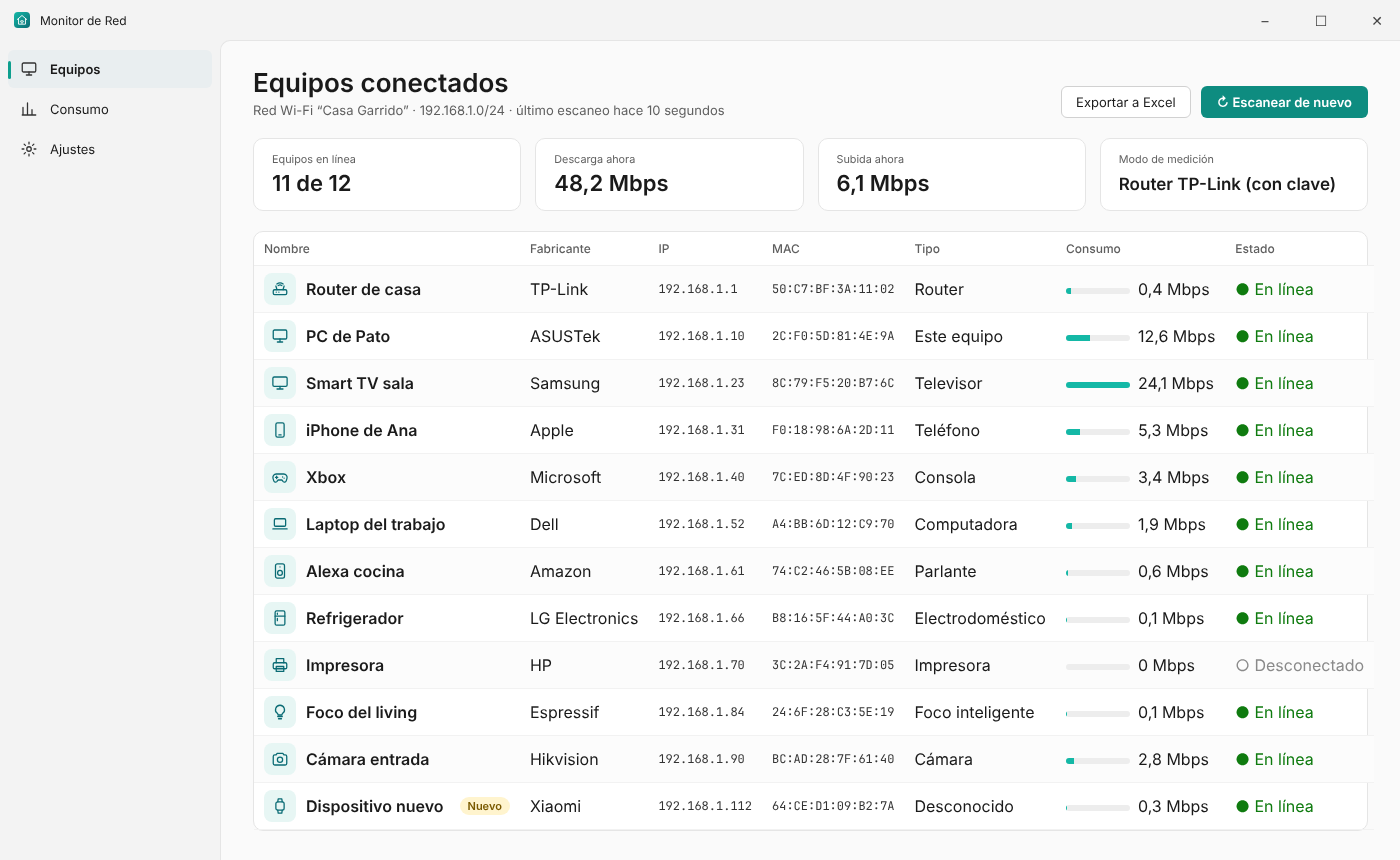
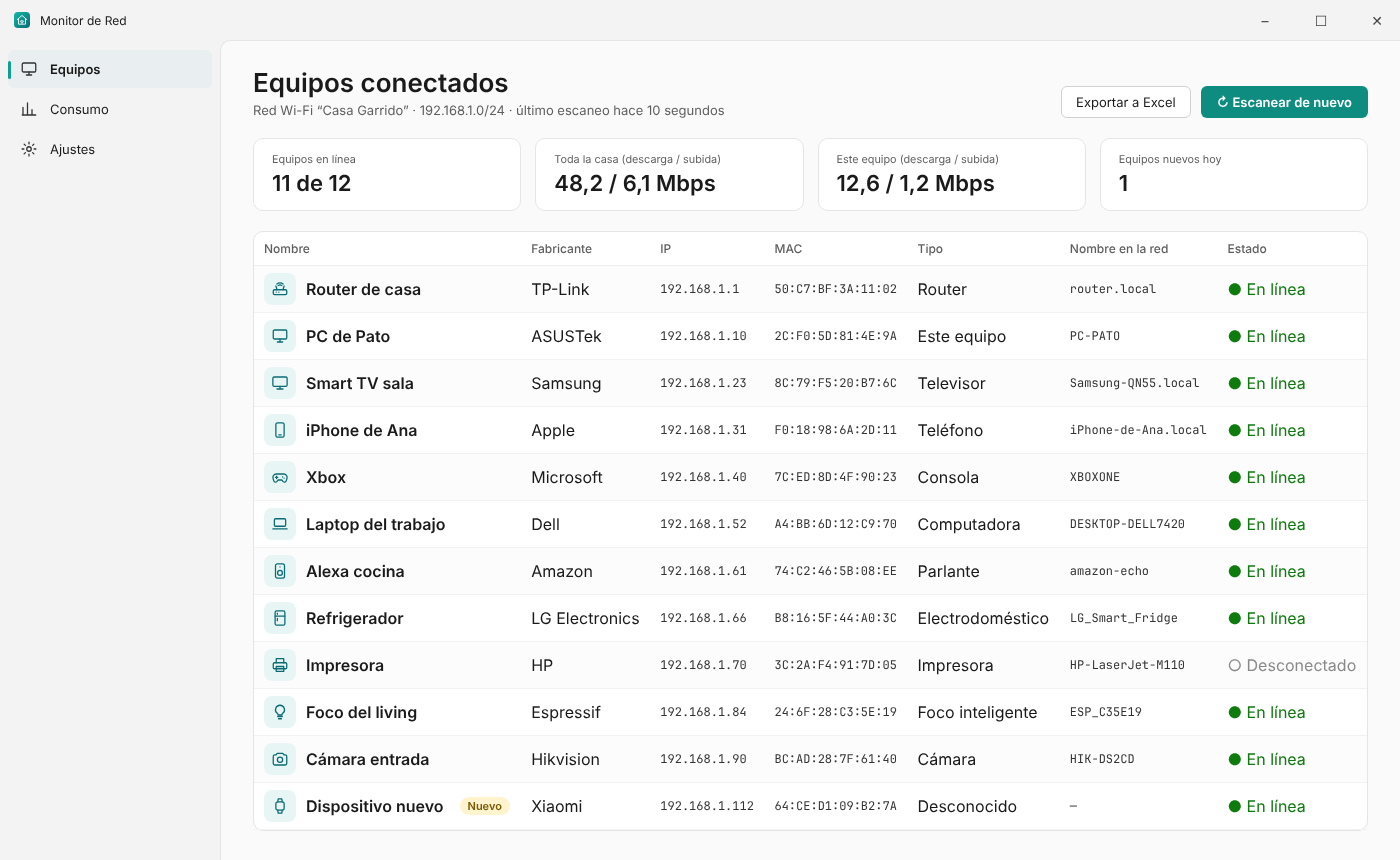
Ajustar la ficha de la Store a la medición de la edición Store
La versión de la Store mide el consumo total de la casa por UPnP y el
del propio equipo. Se quitan de la ficha, la política de privacidad y
las maquetas las menciones a otros modos de medición.

Claude-Session: https://claude.ai/code/session_01KLQaJ2sbnTYSgCnxBopoxp

diff --git a/MonitorRed/store/privacidad.html b/MonitorRed/store/privacidad.html
@@ -33,8 +33,8 @@
     <li>La dirección IP, la dirección MAC y el nombre en la red de cada equipo conectado.</li>
     <li>El fabricante de cada equipo, que se obtiene de la dirección MAC con una lista de fabricantes
       incluida dentro de la aplicación (sin consultar internet).</li>
-    <li>El consumo de internet, que se lee del router (si eliges ese modo) o del total que informa el
-      router por UPnP.</li>
+    <li>El consumo total de internet que informa tu router por UPnP y el consumo de este equipo, que se
+      lee de los contadores de red de Windows.</li>
   </ul>
   <p>Para descubrir los equipos, la aplicación usa los métodos estándar de una red local (ping, tabla ARP,
   NetBIOS, mDNS y UPnP/SSDP). Estas consultas no salen de tu red.</p>
@@ -43,17 +43,14 @@
   <ul>
     <li><strong>Nombres que tú les pones a los equipos</strong> y la lista de equipos vistos, en la carpeta
       <code>%APPDATA%\MonitorRed</code>.</li>
-    <li><strong>Usuario y contraseña del router</strong>, solo si eliges el modo "Conectar con el router".
-      La contraseña se guarda cifrada con la protección de datos de Windows (DPAPI), solo puede leerla tu
-      usuario de Windows en este equipo y únicamente se envía a tu router.</li>
   </ul>
   <p>Puedes borrar estos datos en cualquier momento eliminando esa carpeta o desinstalando la aplicación.</p>
 
   <h2>Información que la aplicación no recopila</h2>
   <ul>
     <li>No envía información a ningún servidor, ni del publicador ni de terceros.</li>
-    <li>No lee el contenido de lo que navegan tú ni los demás equipos de la red (páginas, mensajes,
-      contraseñas ni archivos).</li>
+    <li>No lee el contenido de lo que navegan tú ni los demás equipos de la red (páginas, mensajes ni
+      archivos).</li>
     <li>No usa cookies, publicidad, analíticas ni identificadores de seguimiento.</li>
     <li>No accede a tus documentos, contactos, ubicación, cámara ni micrófono.</li>
     <li>No requiere crear una cuenta.</li>

diff --git a/MonitorRed/store/FICHA-TIENDA.md b/MonitorRed/store/FICHA-TIENDA.md
@@ -15,23 +15,12 @@ Esta carpeta contiene todo lo necesario para la Store (misma estructura que `sto
 
 ---
 
-## Antes de empezar: puntos que pueden hacer rechazar la app
+## Antes de empezar
 
-1. **Modo "interceptar tráfico" (ARP spoofing con Npcap): no incluirlo en la versión de la Store.**
-   Hacerse pasar por el router para ver el tráfico de otros equipos es una técnica de "hombre en el medio".
-   La Store la rechaza casi seguro por la política de seguridad (10.2: la app no debe comprometer la
-   seguridad de otros equipos ni de la red), y además un paquete MSIX no puede instalar el driver Npcap.
-   Por eso el `.exe` de la Store se compila con `-EdicionStore`, que oculta ese modo. Ese modo puede
-   seguir en el `.exe` que se descarga desde la web.
-2. **Agente en cada equipo:** cuando exista, será otra app. Si se publica en la Store, va como un producto
-   aparte con su propia ficha. Mientras no exista, la app lo muestra como "Próximamente" (no prometerlo en
-   la descripción).
-3. **Clave del router:** está bien guardarla porque se cifra con DPAPI y solo se envía al router. Ya está
-   declarado en `privacidad.html` (política 10.5, datos personales).
-4. **Lista de fabricantes (OUI):** se recomienda generarla desde el registro público del IEEE (`oui.csv`)
-   en vez del archivo `manuf` de Wireshark, que se distribuye con licencia GPL.
-5. **Firewall:** si al escanear Windows muestra "Firewall de Windows bloqueó algunas características", hay
-   que agregar reglas de firewall al manifiesto (`desktop2:FirewallRules`). Avísale a Claude con una captura.
+- La versión de la Store mide el consumo de **toda la casa** (por UPnP, si el router lo tiene activado) y el
+  de **este equipo** (contadores de red de Windows). La descripción y las capturas solo deben mostrar eso.
+- **Firewall:** si al escanear Windows muestra "Firewall de Windows bloqueó algunas características", hay
+  que agregar reglas de firewall al manifiesto (`desktop2:FirewallRules`). Avísale a Claude con una captura.
 
 ---
 
@@ -63,7 +52,7 @@ En la app → **Envíos** → **Iniciar el envío**:
 - **Contacto de soporte:** patricio.garrido@garridoitsolutions.lat
 - **Requisitos del sistema:** teclado y mouse. Recomendado: conexión a una red Wi-Fi o cableada.
 - **Declaraciones del producto:** no marques "contiene compras desde la aplicación" ni "acceso a
-  ubicación". Marca que la app **accede a la red local**, si te lo pregunta.
+  ubicación".
 
 ### Clasificación por edad
 Responde el cuestionario IARC: categoría **"Herramienta o utilidad"** (no es un juego ni una red social).
@@ -85,8 +74,8 @@ rechaza con un error de identidad).
 Partner Center pedirá justificar `runFullTrust`. Texto sugerido:
 
 > **runFullTrust:** Monitor de Red es una aplicación de escritorio (WPF) que descubre los equipos de la
-> red local del usuario con los métodos estándar de Windows (ping, tabla ARP, NetBIOS, mDNS y UPnP/SSDP)
-> y lee el consumo de internet desde el router del usuario. Estas funciones requieren una aplicación de
+> red local del usuario con los métodos estándar de Windows (ping, tabla ARP, NetBIOS, mDNS y UPnP/SSDP),
+> lee el consumo total de internet que informa el router por UPnP y el consumo del propio equipo. Estas funciones requieren una aplicación de
 > escritorio de plena confianza. No pide permisos de administrador, no instala drivers ni servicios y no
 > se comunica con servidores externos: solo con el router y los equipos de la red del usuario.
 
@@ -94,9 +83,8 @@ Partner Center pedirá justificar `runFullTrust`. Texto sugerido:
 > La aplicación no requiere cuenta. Para probarla: conectar el equipo a una red Wi-Fi o cableada → abrir
 > la app → la pantalla "Equipos" escanea la red automáticamente y lista los equipos con su nombre, IP,
 > MAC y fabricante. Hacer clic en un equipo para ver el detalle y cambiarle el nombre ("Guardar nombre").
-> En "Ajustes" se elige el modo de medición: "Total de la red (UPnP)" funciona sin claves si el router
-> tiene UPnP activado; "Conectar con el router" necesita la clave del router del usuario, por lo que en
-> el entorno de prueba puede no mostrar el consumo por equipo. La app no lee el contenido del tráfico.
+> El consumo de este equipo se muestra siempre. El consumo total de la casa aparece si el router de la red
+> tiene UPnP activado; si no, la app lo indica y sigue funcionando. La app no lee el contenido del tráfico.
 
 ## Paso 3 — Política de privacidad
 
@@ -110,7 +98,7 @@ https://patriciogg0815.github.io/Moda/MonitorRed/store/privacidad.html
 **Nombre:** Monitor de Red (el nombre reservado en Partner Center)
 
 **Descripción breve**
-> Mira todos los equipos conectados a tu red de casa, con su nombre, IP, MAC y fabricante, y descubre cuál está usando más internet.
+> Mira todos los equipos conectados a tu red de casa, con su nombre, IP, MAC y fabricante, y cuánto internet se está usando.
 
 **Descripción**
 > ¿El internet está lento y no sabes quién lo está usando? ¿Hay un equipo conectado que no reconoces?
@@ -126,23 +114,20 @@ https://patriciogg0815.github.io/Moda/MonitorRed/store/privacidad.html
 > Cambia "Samsung Electronics" por "Smart TV sala" o "Xiaomi" por "Teléfono de Ana". La app recuerda los
 > nombres para la próxima vez.
 >
-> **Quién consume más internet**
-> Elige cómo medir el consumo:
-> - **Conectar con el router:** con el usuario y la clave de tu router, ves la velocidad de descarga y
->   subida de cada equipo.
-> - **Total de la red (UPnP):** sin claves, ves cuánto consume toda la casa.
+> **Cuánto internet se está usando**
+> - **Toda la casa:** la velocidad de descarga y subida total de tu red, leída del router por UPnP,
+>   sin pedir claves.
+> - **Este equipo:** cuánto descarga y sube tu PC en este momento.
 >
 > **Privado y sin configuraciones**
 > - No necesitas cambiar nada en el router ni crear una cuenta.
 > - La información no sale de tu casa: la app no envía datos a ningún servidor.
-> - La clave del router se guarda cifrada solo en tu equipo.
-> - No lee lo que navegan los demás: solo cuenta cuánto consumen.
+> - No lee lo que navegan los demás equipos.
 >
 > Exporta la lista de equipos a Excel (CSV) cuando la necesites.
 
-_Nota (no copiar): la medición de consumo (por router y por UPnP) todavía no está implementada. Si la
-primera versión sale sin ella, quita la sección "Quién consume más internet", la característica de
-consumo y la palabra clave `ancho de banda` (la Store rechaza descripciones que prometen funciones que no están)._
+_Nota (no copiar): la medición de consumo y "Exportar a Excel" deben existir en la versión final; si
+no, quita esas frases (la Store rechaza descripciones que prometen funciones que no están)._
 
 **Novedades de esta versión**
 > Primera versión en la Microsoft Store.
@@ -153,8 +138,8 @@ consumo y la palabra clave `ancho de banda` (la Store rechaza descripciones que 
 - Detecta televisores, consolas, cámaras y electrodomésticos inteligentes
 - Marca los equipos nuevos para detectar intrusos
 - Nombres personalizados para cada equipo
-- Consumo de internet por equipo conectándose al router
-- Consumo total de la casa por UPnP, sin claves
+- Consumo total de internet de la casa por UPnP, sin claves
+- Consumo de internet de este equipo en tiempo real
 - Sin cuenta, sin publicidad y sin enviar datos a internet
 
 **Términos de búsqueda** (máximo 7)
@@ -162,19 +147,18 @@ consumo y la palabra clave `ancho de banda` (la Store rechaza descripciones que 
 
 **Capturas de pantalla** (mínimo 1366×768; se usan en este orden):
 1. `1-equipos` — Lista de equipos conectados
-2. `2-detalle` — Detalle de un equipo con su nombre editable y su consumo
-3. `3-ajustes` — Elegir el modo de medición
+2. `2-detalle` — Detalle de un equipo con su nombre editable
+3. `3-ajustes` — Ajustes del escaneo y de la medición
 
 > **Importante:** las imágenes de `capturas-maqueta/` son **maquetas** hechas mientras la app se termina.
 > La Store exige que las capturas muestren la app real (política 10.1), así que antes de enviar descarga
 > el artifact `capturas-monitor-red` del workflow del monitor y usa las de la carpeta `capturas/store/`
 > (edición Store, mismos nombres, 1400×860). Las maquetas sirven como guía de cómo deberían verse.
-> En las capturas reales no debe aparecer el modo "Interceptar tráfico".
 
 **Texto de cada captura** (campo opcional "Leyenda")
 1. Todos los equipos conectados a tu red, con su fabricante
-2. Ponle nombre a cada equipo y mira cuánto consume
-3. Elige cómo medir el consumo de internet
+2. Ponle nombre a cada equipo para reconocerlo
+3. Mira cuánto internet usa tu casa y tu PC
 
 **Imágenes para mostrar en Store (1:1):** `LogoTienda-300x300.png`, `LogoTienda-150x150.png` y
 `LogoTienda-71x71.png`, cada una en su recuadro.
@@ -194,7 +178,7 @@ Partner Center indica el motivo; envía el informe a Claude para corregirlo.
 ## Para el workflow del monitor (`.github/workflows/monitor-red.yml`)
 
 Pasos a agregar después del paso "Generar MonitorRed.exe", que ya crea la edición Store
-(`dist\store\MonitorRed.exe`, sin el modo interceptar):
+(`dist\store\MonitorRed.exe`):
 
 ```yaml
       - name: Generar paquete MSIX (Microsoft Store)
